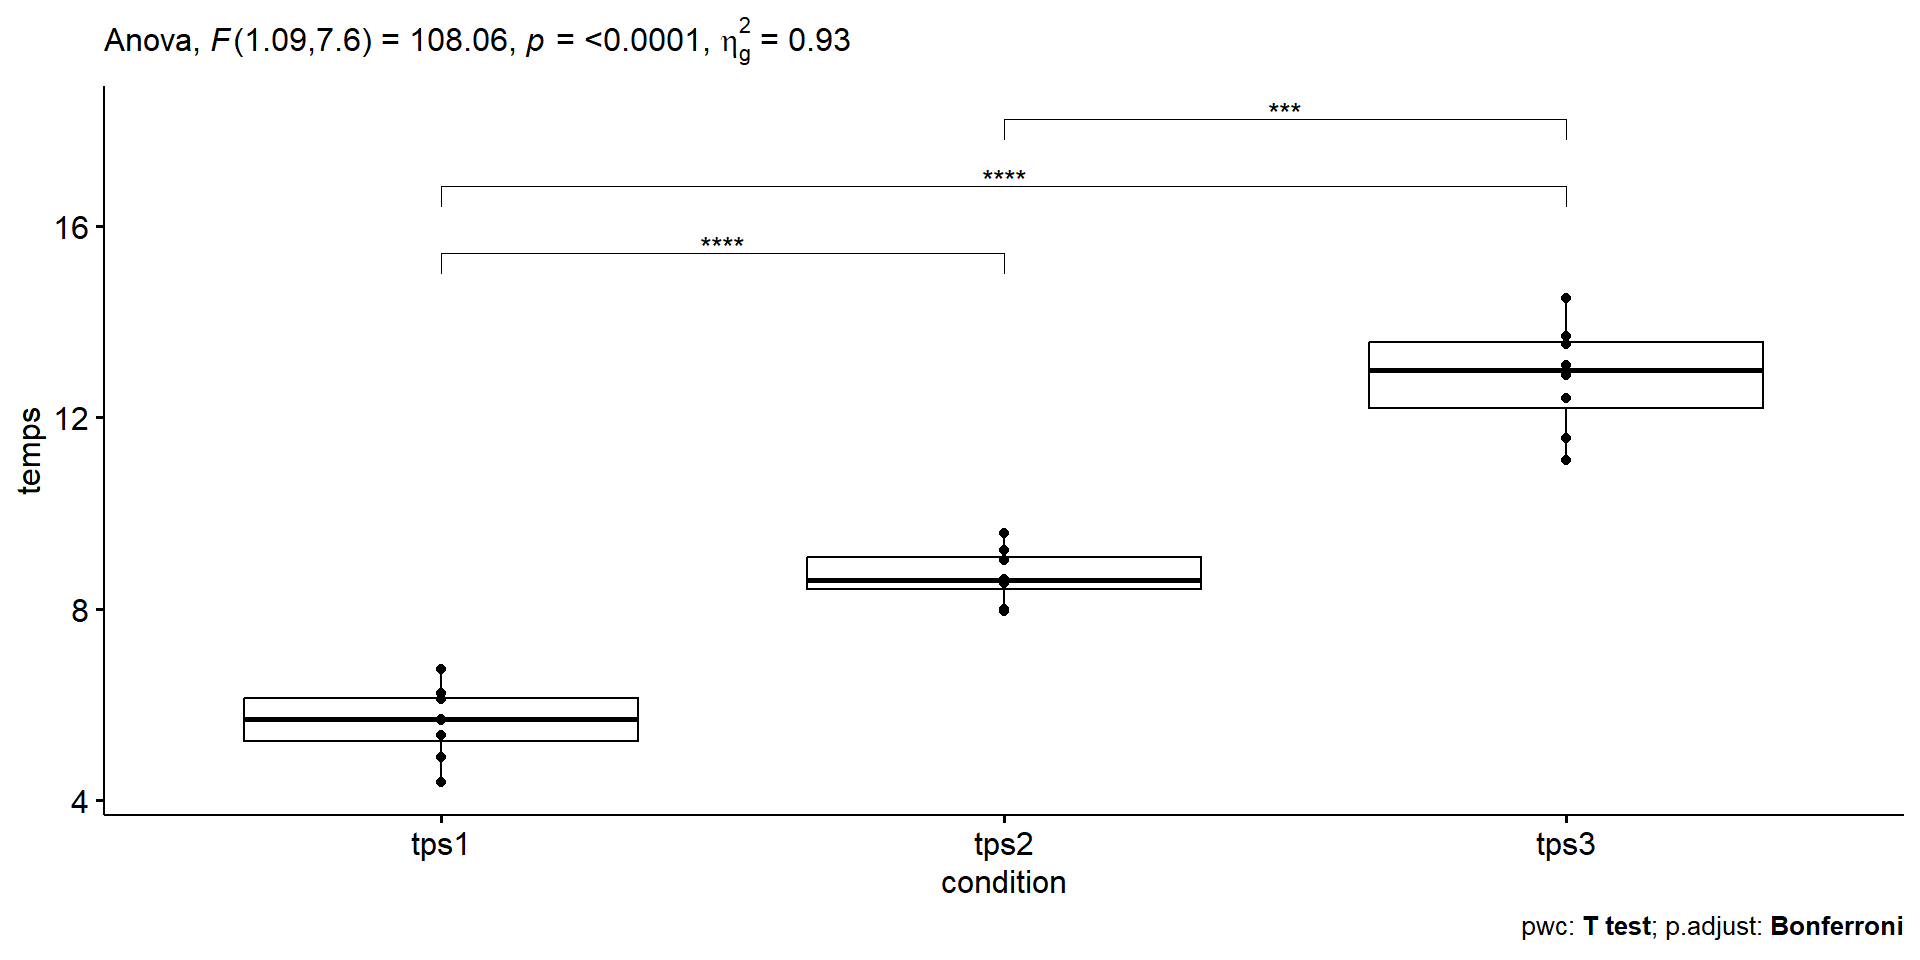
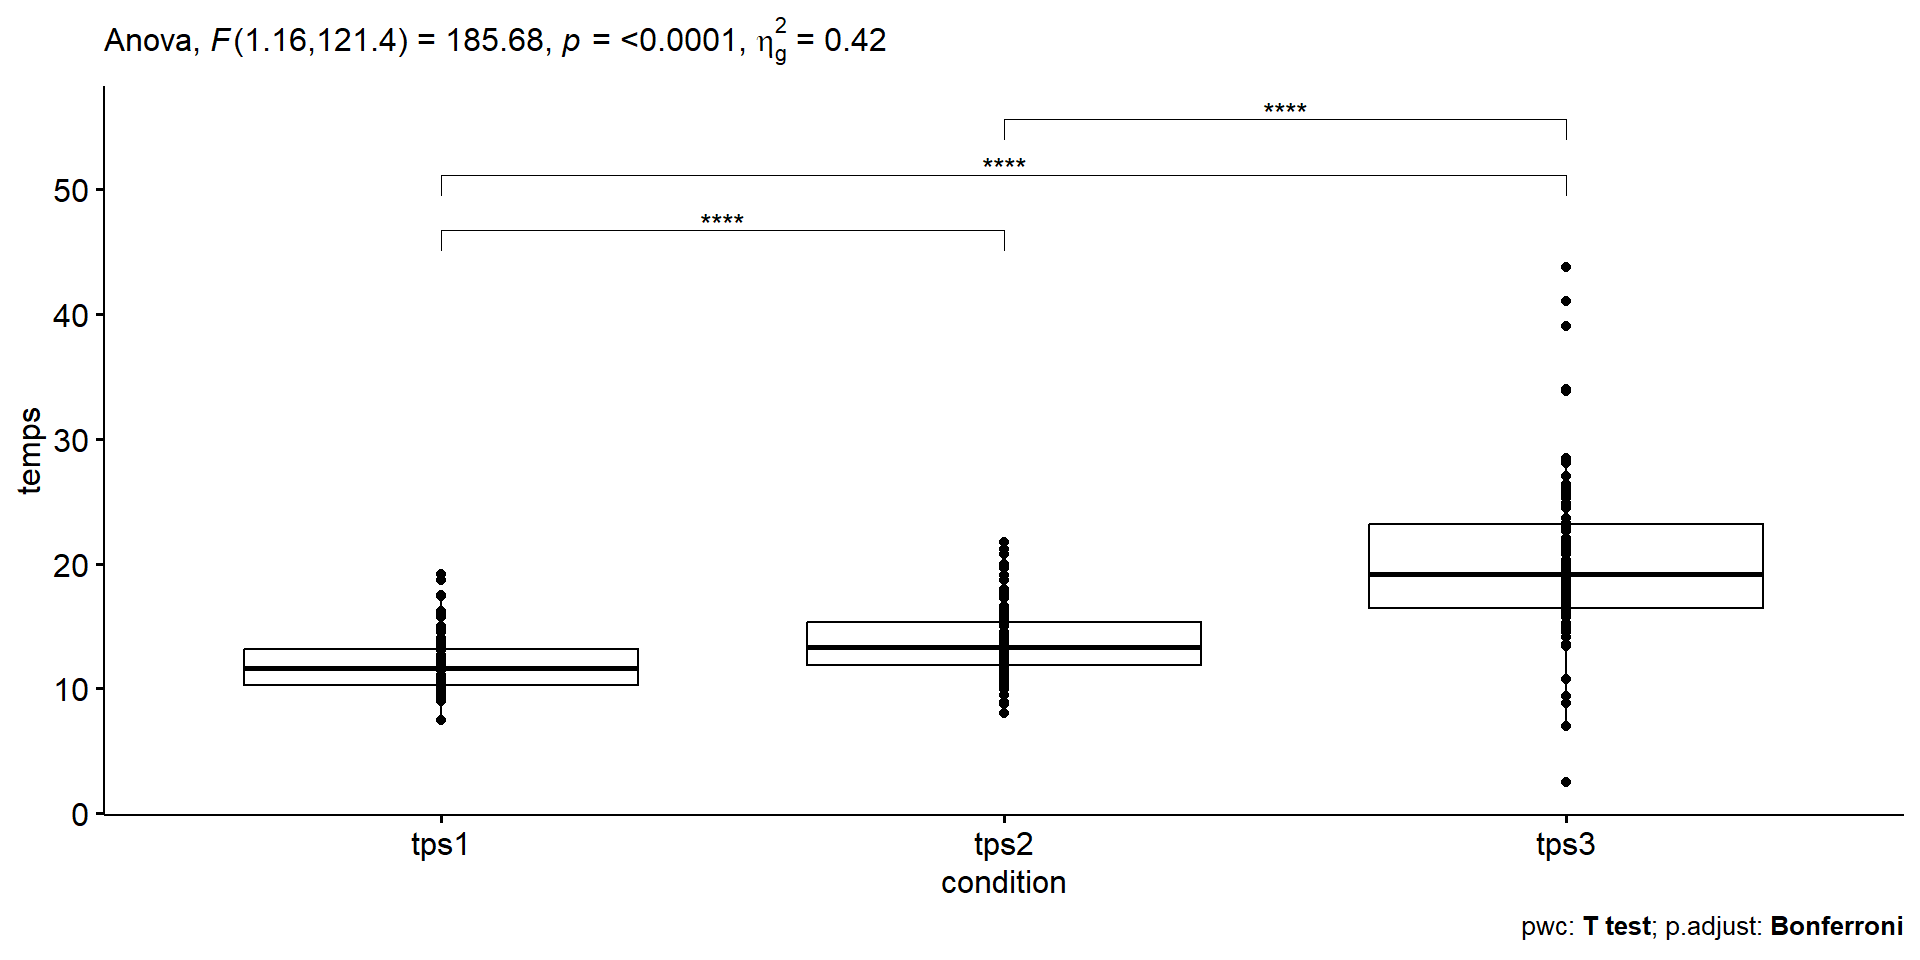
Ajout du ## Problématique {.scrollable} et changement du tableau de données pour voir les résultats du groupe du vendredi

diff --git a/L1_CM-speaker.html b/L1_CM-speaker.html
@@ -620,9 +620,8 @@
           display:block!important;
       }</style></aside>
 </section>
-<section class="slide level2">
-
-<h3 class="scrollable" id="problématique">Problématique</h3>
+<section id="problématique" class="slide level2 scrollable">
+<h2>Problématique</h2>
 <ul>
 <li class="fragment">Recherche dans le cadre le modèle théorique du traitement du nombre à deux chiffres de Nuerk et al.&nbsp;(2015)</li>
 <li class="fragment">On sait que l’activation de la magnitude des nombres est automatique dans les tâches numériques</li>
@@ -824,9 +823,9 @@
 <pre><code># A tibble: 3 × 5
   condition variable     n  mean    sd
   &lt;fct&gt;     &lt;fct&gt;    &lt;dbl&gt; &lt;dbl&gt; &lt;dbl&gt;
-1 tps1      temps        8  5.63 0.759
-2 tps2      temps        8  8.68 0.571
-3 tps3      temps        8 12.8  1.12 </code></pre>
+1 tps1      temps      106  11.9  2.22
+2 tps2      temps      106  13.7  2.75
+3 tps3      temps      106  20.1  6.28</code></pre>
 </div>
 </div>
 </section>
@@ -838,8 +837,8 @@
 <div class="cell-output cell-output-stdout">
 <pre><code>ANOVA Table (type III tests)
 
-     Effect  DFn DFd       F        p p&lt;.05   ges
-1 condition 1.09 7.6 108.059 7.85e-06     * 0.933</code></pre>
+     Effect  DFn   DFd       F        p p&lt;.05  ges
+1 condition 1.16 121.4 185.681 1.97e-28     * 0.42</code></pre>
 </div>
 <div class="code-copy-outer-scaffold"><div class="sourceCode cell-code" id="cb5"><pre class="sourceCode numberSource r number-lines code-with-copy"><code class="sourceCode r"><span id="cb5-1"><a></a><span class="co"># comparaisons par paires</span></span>
 <span id="cb5-2"><a></a>pwc <span class="ot">&lt;-</span> d_long <span class="sc">%&gt;%</span></span>
@@ -850,11 +849,11 @@
 <span id="cb5-7"><a></a>pwc</span></code></pre></div><button title="Copy to Clipboard" class="code-copy-button"><i class="bi"></i></button></div>
 <div class="cell-output cell-output-stdout">
 <pre><code># A tibble: 3 × 10
-  .y.   group1 group2    n1    n2 statistic    df         p   p.adj p.adj.signif
-* &lt;chr&gt; &lt;chr&gt;  &lt;chr&gt;  &lt;int&gt; &lt;int&gt;     &lt;dbl&gt; &lt;dbl&gt;     &lt;dbl&gt;   &lt;dbl&gt; &lt;chr&gt;       
-1 temps tps1   tps2       8     8    -21.2      7   1.32e-7 3.96e-7 ****        
-2 temps tps1   tps3       8     8    -11.9      7   6.78e-6 2.03e-5 ****        
-3 temps tps2   tps3       8     8     -7.15     7   1.85e-4 5.55e-4 ***         </code></pre>
+  .y.   group1 group2    n1    n2 statistic    df        p    p.adj p.adj.signif
+* &lt;chr&gt; &lt;chr&gt;  &lt;chr&gt;  &lt;int&gt; &lt;int&gt;     &lt;dbl&gt; &lt;dbl&gt;    &lt;dbl&gt;    &lt;dbl&gt; &lt;chr&gt;       
+1 temps tps1   tps2     106   106     -9.65   105 3.82e-16 1.15e-15 ****        
+2 temps tps1   tps3     106   106    -14.6    105 5.18e-27 1.55e-26 ****        
+3 temps tps2   tps3     106   106    -12.8    105 3.64e-23 1.09e-22 ****        </code></pre>
 </div>
 </div>
 </section>
@@ -877,9 +876,9 @@
 <pre><code># A tibble: 3 × 5
   condition variable     n  mean    sd
   &lt;fct&gt;     &lt;fct&gt;    &lt;dbl&gt; &lt;dbl&gt; &lt;dbl&gt;
-1 erreurs1  erreurs      8  1.62 0.744
-2 erreurs2  erreurs      8  2.25 0.707
-3 erreurs3  erreurs      8  3.88 0.835</code></pre>
+1 erreurs1  erreurs    101 0.198 0.469
+2 erreurs2  erreurs    101 0.337 0.637
+3 erreurs3  erreurs    101 0.822 1.16 </code></pre>
 </div>
 </div>
 </section>
@@ -891,8 +890,8 @@
 <div class="cell-output cell-output-stdout">
 <pre><code>ANOVA Table (type III tests)
 
-     Effect DFn DFd     F        p p&lt;.05   ges
-1 condition   2  14 17.95 0.000137     * 0.638</code></pre>
+     Effect  DFn   DFd      F        p p&lt;.05   ges
+1 condition 1.44 144.1 22.973 1.27e-07     * 0.099</code></pre>
 </div>
 <div class="code-copy-outer-scaffold"><div class="sourceCode cell-code" id="cb11"><pre class="sourceCode numberSource r number-lines code-with-copy"><code class="sourceCode r"><span id="cb11-1"><a></a><span class="co"># comparaisons par paires</span></span>
 <span id="cb11-2"><a></a>pwc2 <span class="ot">&lt;-</span> d_long2 <span class="sc">%&gt;%</span></span>
@@ -903,11 +902,11 @@
 <span id="cb11-7"><a></a>pwc2</span></code></pre></div><button title="Copy to Clipboard" class="code-copy-button"><i class="bi"></i></button></div>
 <div class="cell-output cell-output-stdout">
 <pre><code># A tibble: 3 × 10
-  .y.     group1   group2    n1    n2 statistic    df       p p.adj p.adj.signif
-* &lt;chr&gt;   &lt;chr&gt;    &lt;chr&gt;  &lt;int&gt; &lt;int&gt;     &lt;dbl&gt; &lt;dbl&gt;   &lt;dbl&gt; &lt;dbl&gt; &lt;chr&gt;       
-1 erreurs erreurs1 erreu…     8     8     -1.67     7 1.4 e-1 0.42  ns          
-2 erreurs erreurs1 erreu…     8     8     -5.46     7 9.43e-4 0.003 **          
-3 erreurs erreurs2 erreu…     8     8     -4.33     7 3   e-3 0.01  *           </code></pre>
+  .y.     group1 group2    n1    n2 statistic    df       p   p.adj p.adj.signif
+* &lt;chr&gt;   &lt;chr&gt;  &lt;chr&gt;  &lt;int&gt; &lt;int&gt;     &lt;dbl&gt; &lt;dbl&gt;   &lt;dbl&gt;   &lt;dbl&gt; &lt;chr&gt;       
+1 erreurs erreu… erreu…   101   101     -2.15   100 3.4 e-2 1.02e-1 ns          
+2 erreurs erreu… erreu…   101   101     -5.23   100 9.36e-7 2.81e-6 ****        
+3 erreurs erreu… erreu…   101   101     -4.94   100 3.08e-6 9.24e-6 ****        </code></pre>
 </div>
 </div>
 </section>

diff --git a/docs/L1_CM.html b/docs/L1_CM.html
@@ -620,9 +620,8 @@
           display:block!important;
       }</style></aside>
 </section>
-<section class="slide level2">
-
-<h3 class="scrollable" id="problématique">Problématique</h3>
+<section id="problématique" class="slide level2 scrollable">
+<h2>Problématique</h2>
 <ul>
 <li class="fragment">Recherche dans le cadre le modèle théorique du traitement du nombre à deux chiffres de Nuerk et al.&nbsp;(2015)</li>
 <li class="fragment">On sait que l’activation de la magnitude des nombres est automatique dans les tâches numériques</li>
@@ -824,9 +823,9 @@
 <pre><code># A tibble: 3 × 5
   condition variable     n  mean    sd
   &lt;fct&gt;     &lt;fct&gt;    &lt;dbl&gt; &lt;dbl&gt; &lt;dbl&gt;
-1 tps1      temps        8  5.63 0.759
-2 tps2      temps        8  8.68 0.571
-3 tps3      temps        8 12.8  1.12 </code></pre>
+1 tps1      temps      106  11.9  2.22
+2 tps2      temps      106  13.7  2.75
+3 tps3      temps      106  20.1  6.28</code></pre>
 </div>
 </div>
 </section>
@@ -838,8 +837,8 @@
 <div class="cell-output cell-output-stdout">
 <pre><code>ANOVA Table (type III tests)
 
-     Effect  DFn DFd       F        p p&lt;.05   ges
-1 condition 1.09 7.6 108.059 7.85e-06     * 0.933</code></pre>
+     Effect  DFn   DFd       F        p p&lt;.05  ges
+1 condition 1.16 121.4 185.681 1.97e-28     * 0.42</code></pre>
 </div>
 <div class="code-copy-outer-scaffold"><div class="sourceCode cell-code" id="cb5"><pre class="sourceCode numberSource r number-lines code-with-copy"><code class="sourceCode r"><span id="cb5-1"><a></a><span class="co"># comparaisons par paires</span></span>
 <span id="cb5-2"><a></a>pwc <span class="ot">&lt;-</span> d_long <span class="sc">%&gt;%</span></span>
@@ -850,11 +849,11 @@
 <span id="cb5-7"><a></a>pwc</span></code></pre></div><button title="Copy to Clipboard" class="code-copy-button"><i class="bi"></i></button></div>
 <div class="cell-output cell-output-stdout">
 <pre><code># A tibble: 3 × 10
-  .y.   group1 group2    n1    n2 statistic    df         p   p.adj p.adj.signif
-* &lt;chr&gt; &lt;chr&gt;  &lt;chr&gt;  &lt;int&gt; &lt;int&gt;     &lt;dbl&gt; &lt;dbl&gt;     &lt;dbl&gt;   &lt;dbl&gt; &lt;chr&gt;       
-1 temps tps1   tps2       8     8    -21.2      7   1.32e-7 3.96e-7 ****        
-2 temps tps1   tps3       8     8    -11.9      7   6.78e-6 2.03e-5 ****        
-3 temps tps2   tps3       8     8     -7.15     7   1.85e-4 5.55e-4 ***         </code></pre>
+  .y.   group1 group2    n1    n2 statistic    df        p    p.adj p.adj.signif
+* &lt;chr&gt; &lt;chr&gt;  &lt;chr&gt;  &lt;int&gt; &lt;int&gt;     &lt;dbl&gt; &lt;dbl&gt;    &lt;dbl&gt;    &lt;dbl&gt; &lt;chr&gt;       
+1 temps tps1   tps2     106   106     -9.65   105 3.82e-16 1.15e-15 ****        
+2 temps tps1   tps3     106   106    -14.6    105 5.18e-27 1.55e-26 ****        
+3 temps tps2   tps3     106   106    -12.8    105 3.64e-23 1.09e-22 ****        </code></pre>
 </div>
 </div>
 </section>
@@ -877,9 +876,9 @@
 <pre><code># A tibble: 3 × 5
   condition variable     n  mean    sd
   &lt;fct&gt;     &lt;fct&gt;    &lt;dbl&gt; &lt;dbl&gt; &lt;dbl&gt;
-1 erreurs1  erreurs      8  1.62 0.744
-2 erreurs2  erreurs      8  2.25 0.707
-3 erreurs3  erreurs      8  3.88 0.835</code></pre>
+1 erreurs1  erreurs    101 0.198 0.469
+2 erreurs2  erreurs    101 0.337 0.637
+3 erreurs3  erreurs    101 0.822 1.16 </code></pre>
 </div>
 </div>
 </section>
@@ -891,8 +890,8 @@
 <div class="cell-output cell-output-stdout">
 <pre><code>ANOVA Table (type III tests)
 
-     Effect DFn DFd     F        p p&lt;.05   ges
-1 condition   2  14 17.95 0.000137     * 0.638</code></pre>
+     Effect  DFn   DFd      F        p p&lt;.05   ges
+1 condition 1.44 144.1 22.973 1.27e-07     * 0.099</code></pre>
 </div>
 <div class="code-copy-outer-scaffold"><div class="sourceCode cell-code" id="cb11"><pre class="sourceCode numberSource r number-lines code-with-copy"><code class="sourceCode r"><span id="cb11-1"><a></a><span class="co"># comparaisons par paires</span></span>
 <span id="cb11-2"><a></a>pwc2 <span class="ot">&lt;-</span> d_long2 <span class="sc">%&gt;%</span></span>
@@ -903,11 +902,11 @@
 <span id="cb11-7"><a></a>pwc2</span></code></pre></div><button title="Copy to Clipboard" class="code-copy-button"><i class="bi"></i></button></div>
 <div class="cell-output cell-output-stdout">
 <pre><code># A tibble: 3 × 10
-  .y.     group1   group2    n1    n2 statistic    df       p p.adj p.adj.signif
-* &lt;chr&gt;   &lt;chr&gt;    &lt;chr&gt;  &lt;int&gt; &lt;int&gt;     &lt;dbl&gt; &lt;dbl&gt;   &lt;dbl&gt; &lt;dbl&gt; &lt;chr&gt;       
-1 erreurs erreurs1 erreu…     8     8     -1.67     7 1.4 e-1 0.42  ns          
-2 erreurs erreurs1 erreu…     8     8     -5.46     7 9.43e-4 0.003 **          
-3 erreurs erreurs2 erreu…     8     8     -4.33     7 3   e-3 0.01  *           </code></pre>
+  .y.     group1 group2    n1    n2 statistic    df       p   p.adj p.adj.signif
+* &lt;chr&gt;   &lt;chr&gt;  &lt;chr&gt;  &lt;int&gt; &lt;int&gt;     &lt;dbl&gt; &lt;dbl&gt;   &lt;dbl&gt;   &lt;dbl&gt; &lt;chr&gt;       
+1 erreurs erreu… erreu…   101   101     -2.15   100 3.4 e-2 1.02e-1 ns          
+2 erreurs erreu… erreu…   101   101     -5.23   100 9.36e-7 2.81e-6 ****        
+3 erreurs erreu… erreu…   101   101     -4.94   100 3.08e-6 9.24e-6 ****        </code></pre>
 </div>
 </div>
 </section>
